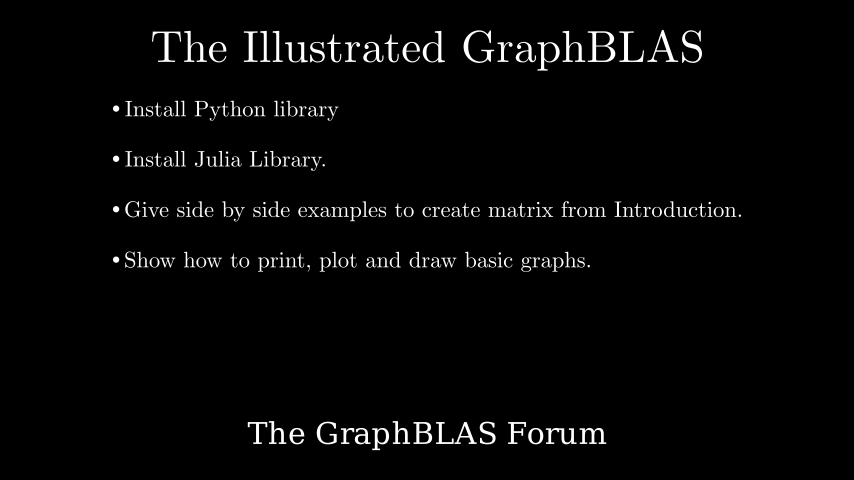
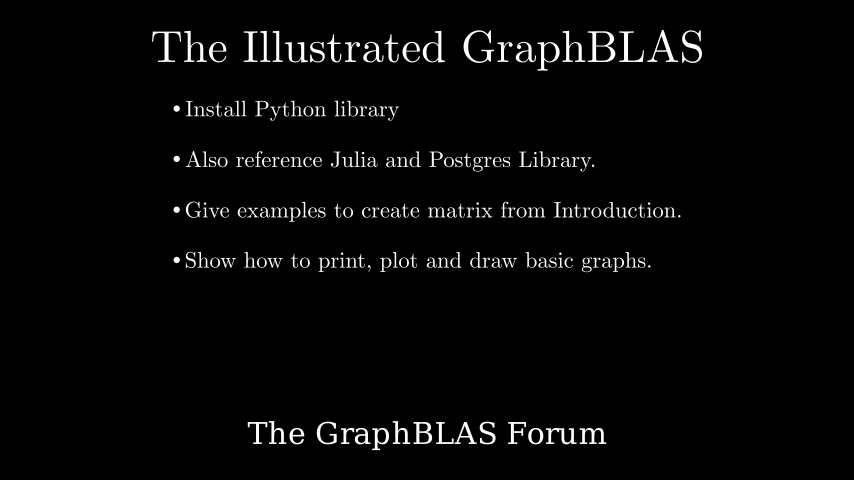
small update to thumbs for ch1
Time: 30 mins

diff --git a/Chapter1/Thumb.py b/Chapter1/Thumb.py
@@ -6,8 +6,8 @@ class Thumb(Scene):
         title = Tex("The Illustrated GraphBLAS").scale(1.5).to_edge(UP)
         bullet_points = BulletedList(
             "Install Python library",
-            "Install Julia Library.",
-            "Give side by side examples to create matrix from Introduction.",
+            "Also reference Julia and Postgres Library.",
+            "Give examples to create matrix from Introduction.",
             "Show how to print, plot and draw basic graphs.",
             font_size=36
         )
